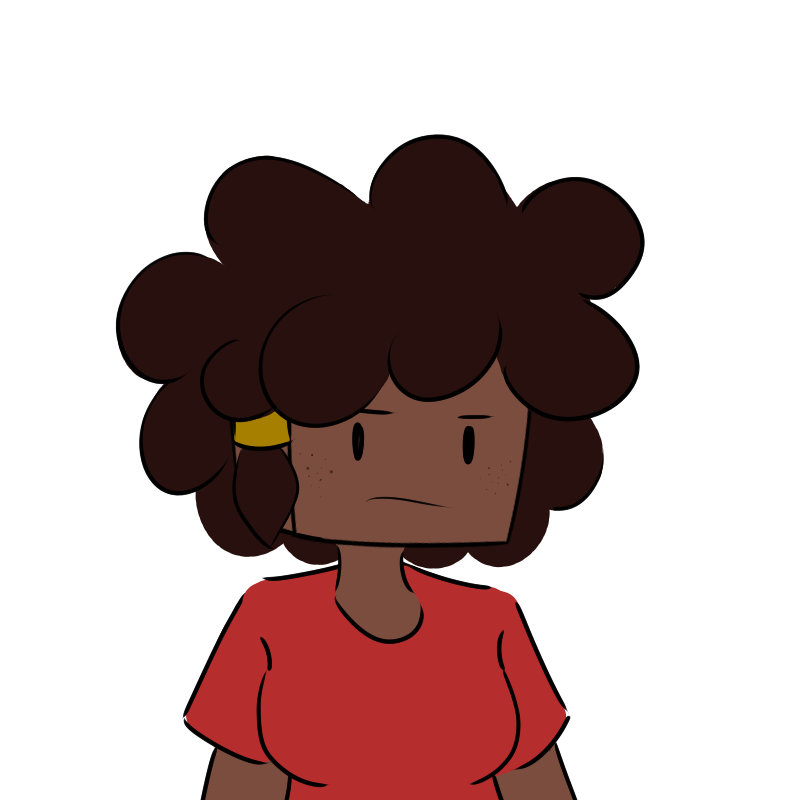
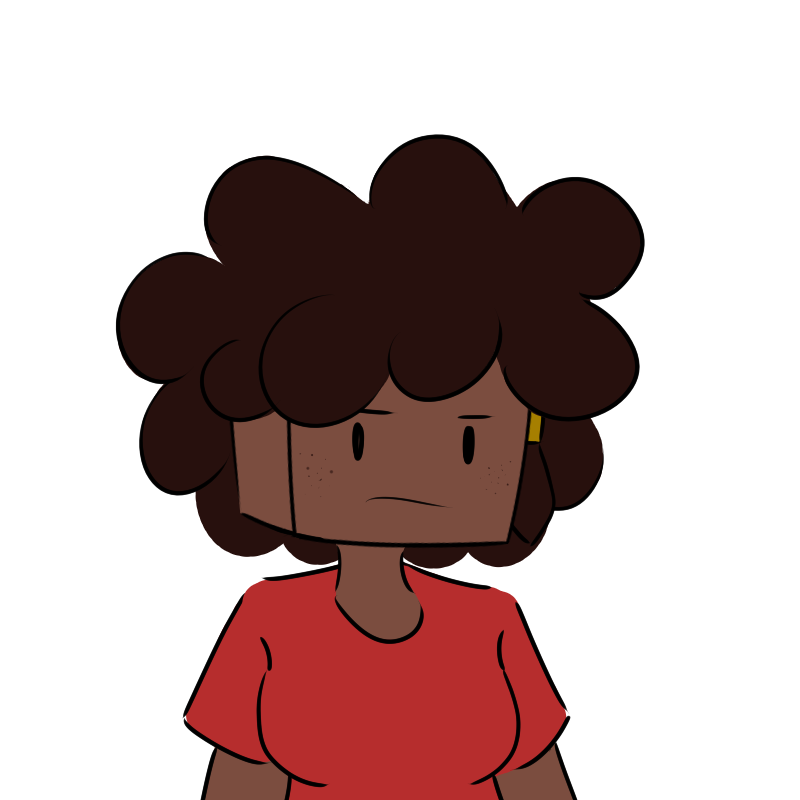
change olivia image, adjusted branching page explanation

Changed region(s): [[0.2812, 0.5, 0.375, 0.6875], [0.6562, 0.5, 0.6875, 0.5938], [0.625, 0.6562, 0.6875, 0.6875]]

diff --git a/branching.html b/branching.html
@@ -42,7 +42,7 @@
             <p>
                 In Nether After, you will take on missions where your decisions change the story.
                 <br><br>
-                For example, in one scenario, you’ll be scavenging with your friend Aiden and come across someone caught in a trap, named Noah. You may want to help him, but Aiden insists on leaving with the loot you’ve found. Some choices will result in rescuing Noah, but allowing Aiden to die, and if this happens, other members of your group (Maya and Lukas) will blame you for his death and threaten to leave. This encounter alone has significant implications for how your story will shape:
+                For example, in one scenario, you’ll be scavenging with your friend Aiden and come across someone caught in a trap, named Noah. You may want to help him, but Aiden will insist on leaving with the loot you’ve found. Some choices will result in rescuing Noah, but allowing Aiden to die in the process. If this happens, other members of your group (Maya and Lukas) will blame you for his death and threaten to leave. This encounter alone has significant implications for how your story will shape:
             </p>
             <div class="outcomes-container">
                 <img src="outcomes\e2\m1\maya-and-lukas-leave.png" alt="Aiden dies, Maya and Lukas leave." title="Aiden dies, Maya and Lukas leave.">
